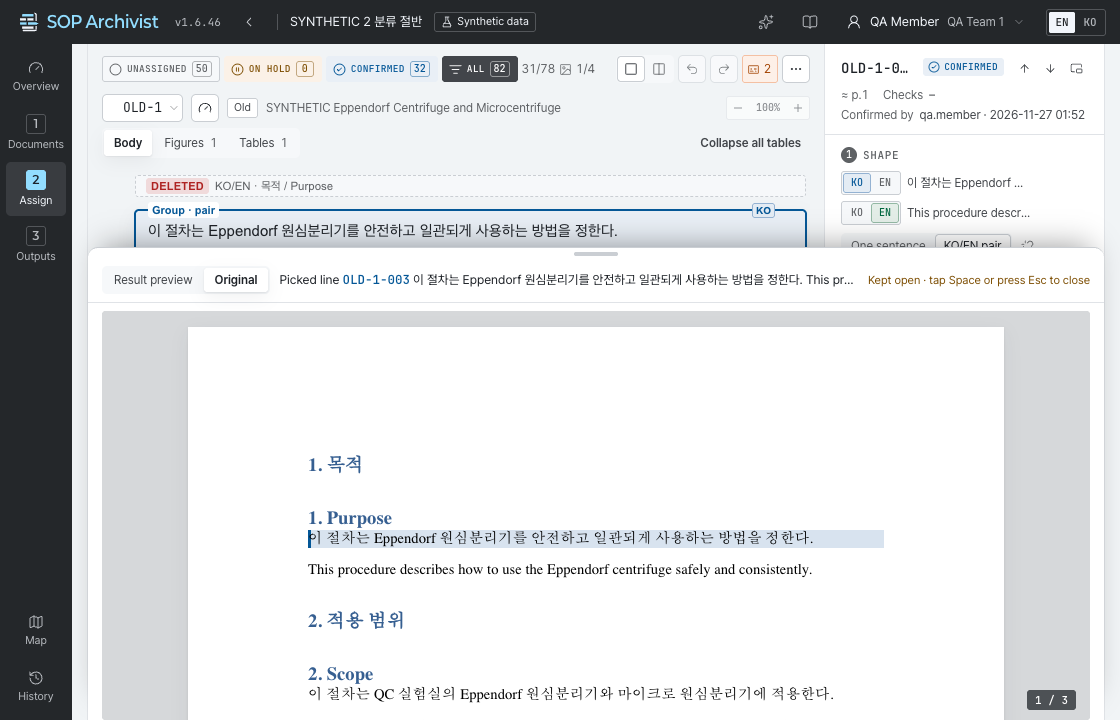
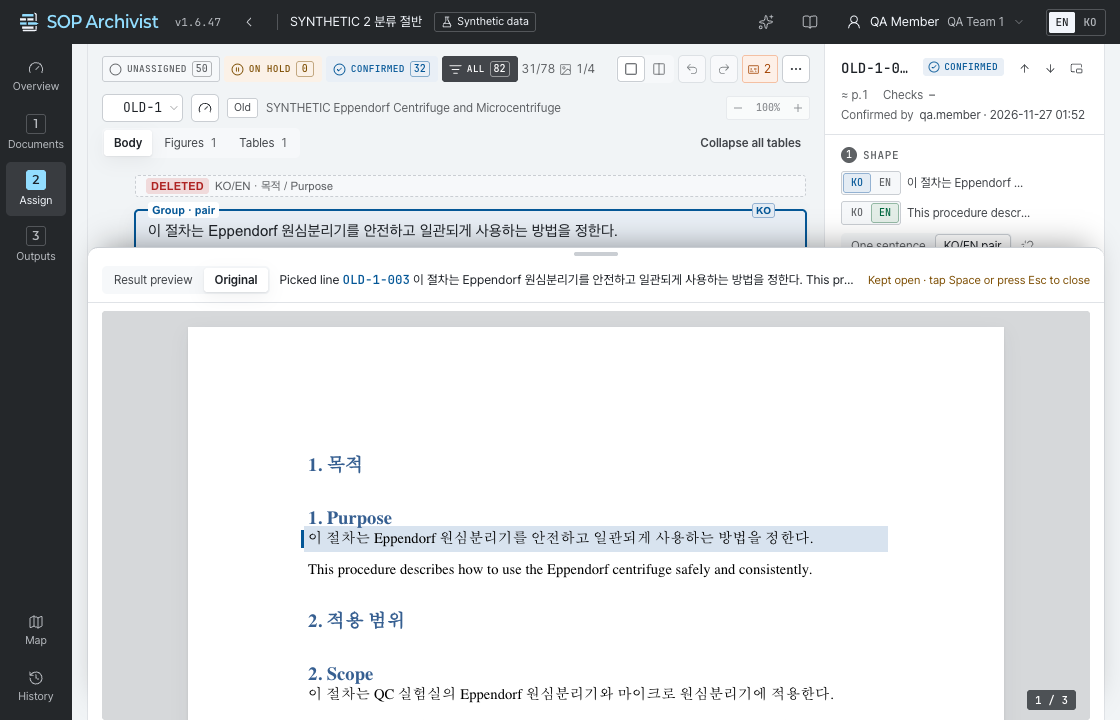
chore(release): v1.6.48 — retarget the release prep after the paint padding — 준비 커밋을 v1.6.48로
The original view's paint fix (user report 2026-11-27) joined this release as v1.6.48, so the release heading, manual header, status lines, checklist and ledger now name v1.6.48; the manual's assign-original picture shows the new paint.

Claude-Session: https://claude.ai/code/session_01YNNLv8N5oxsYSA5AEz2kBE

Changed region(s): [[0.25, 0.7333, 0.8125, 0.7639]]

diff --git a/docs/qa/2026-11-26-release-frontend-checklist.html b/docs/qa/2026-11-26-release-frontend-checklist.html
@@ -4,7 +4,7 @@
 <meta charset="utf-8">
 <meta name="viewport" content="width=device-width, initial-scale=1">
 <title>정식 업데이트 화면 체크리스트</title>
-<!-- v1.5.0(마지막 main) → dev v1.6.47 사이 프런트 변경을 화면에서 손으로 볼 것. 항목은 아래 SECTIONS 한 곳, 체크는 이 브라우저에만 남는다. -->
+<!-- v1.5.0(마지막 main) → dev v1.6.48 사이 프런트 변경을 화면에서 손으로 볼 것. 항목은 아래 SECTIONS 한 곳, 체크는 이 브라우저에만 남는다. -->
 <style>
   :root {
     --bg: #f7f7f5; --card: #ffffff; --text: #1d1d1b; --muted: #6b6b66;
@@ -85,7 +85,7 @@
 <body>
 <main>
   <h1>정식 업데이트 화면 체크리스트</h1>
-  <p class="sub">마지막 main <b>v1.5.0</b> → dev <b>v1.6.47</b>. 개발 서버(:4444)에서 화면으로 볼 것만 추렸습니다.</p>
+  <p class="sub">마지막 main <b>v1.5.0</b> → dev <b>v1.6.48</b>. 개발 서버(:4444)에서 화면으로 볼 것만 추렸습니다.</p>
   <p class="sub">자세한 것은 <code>CHANGELOG.md</code> · 장부 "아침에 볼 것"(<code>docs/superpowers/plans/2026-11-25-split-first-ledger.md</code>).</p>
   <div class="bar">
     <div class="meter"><i id="fill"></i></div>
@@ -186,7 +186,7 @@
       { id: "fb-practice", ver: "v1.6.42", title: "연습 페이지 <code>/practice</code> — 서버에 아무것도 쓰지 않는다", detail: ["사용자 메뉴 <b>Practice</b> · 설명서 머리에서 들어감", "과제 12개가 손짓대로 자동 ✓(안내 모양은 v1.6.44 말풍선)"] },
       { id: "fb-coach", ver: "v1.6.44", title: "연습 화면 과제 안내 = 말풍선 스포트라이트", detail: ["화면이 살짝 어두워지고 눌러야 할 상자만 밝게 · 파란 테두리가 숨쉼", "말풍선: 과제 n/12 · 장 이름 · 글쇠 · 설명서 → · 건너뛰기", "해내면 카드가 뒤집혀 체크 → 다음 과제로", "위 띠의 점 12개(누르면 그 과제), 다 하면 마치는 카드"] },
       { id: "fb-sheet-resize", ver: "v1.6.45", title: "Space 시트 위 손잡이를 끌어 높이 조절", detail: ["작업 화면의 30~90%", "새로 고침 뒤에도 그 높이"] },
-      { id: "fb-original", ver: "v1.6.46", title: "Space 시트 탭 둘 — 결과 미리보기 · <b>원본 보기</b>(인쇄 미리보기)", detail: ["원본 탭: 회색 책상 위 흰 종이(다크에서도), 머리말 · 꼬리말 · 쪽 번호, 오른쪽 아래 쪽 칩 \"3 / 12\"", "J · K로 고른 박스의 문단 · 표 칸 · 표 전체가 칠해지고 그 자리로 따라감(가까우면 굴림, 멀면 흐렸다 밝힘)", "열어 둔 시트에서 Space 탁 → 0.3초 흐려지며 닫힘, 그사이 한 번 더 탁 → 탭이 바뀜", "마지막 탭 기억 · 시트를 닫았다 열어도 쉬머 없이 바로", "양 단: Old · New 두 원본이 본 화면 세로선 비율로 나란히(앱에서 만든 New는 안내)", "PDF 원본 · 연습 화면은 안내만", "EMF · WMF 그림(옛 아이콘 · Visio · Excel 미리보기)이 그려짐 — 못 그리면 빗금 상자"] },
+      { id: "fb-original", ver: "v1.6.46", title: "Space 시트 탭 둘 — 결과 미리보기 · <b>원본 보기</b>(인쇄 미리보기)", detail: ["원본 탭: 회색 책상 위 흰 종이(다크에서도), 머리말 · 꼬리말 · 쪽 번호, 오른쪽 아래 쪽 칩 \"3 / 12\"", "J · K로 고른 박스의 문단 · 표 칸 · 표 전체가 칠해지고(막대는 글자 밖 왼쪽, v1.6.48) 그 자리로 따라감(가까우면 굴림, 멀면 흐렸다 밝힘)", "열어 둔 시트에서 Space 탁 → 0.3초 흐려지며 닫힘, 그사이 한 번 더 탁 → 탭이 바뀜", "마지막 탭 기억 · 시트를 닫았다 열어도 쉬머 없이 바로", "양 단: Old · New 두 원본이 본 화면 세로선 비율로 나란히(앱에서 만든 New는 안내)", "PDF 원본 · 연습 화면은 안내만", "EMF · WMF 그림(옛 아이콘 · Visio · Excel 미리보기)이 그려짐 — 못 그리면 빗금 상자"] },
       { id: "fb-headfit", ver: "v1.6.43", title: "문서가 하나인 Assign 칸 머리 줄 — 좁은 칸에서 제목이 말줄임", detail: ["확대 단추가 옆 칸 머리를 덮지 않음", "전체 이름은 툴팁"] },
     ] },
     { title: "관리 화면", where: "/admin — v1.6.19(관리 세션에서 중간에 합침), 칩 숫자는 스텝", items: [

diff --git a/CHANGELOG.md b/CHANGELOG.md
@@ -4,9 +4,9 @@ SOP Archivist 서비스 버전 기록. 단일 소스는 `frontend/package.json` 
 
 ## Unreleased (dev)
 
-## v1.6.47 — 2026-11-27
+## v1.6.48 — 2026-11-27
 
-- **범위**: v1.5.0 뒤 dev 업데이트 v1.6.0~v1.6.47 — 쪼개기 먼저 패치(T/F 피드백 2차 명세 17항목 중 F2-R1~R5를 뺀 전부 · 회의 결정), 관리 화면 다듬기, 1차 피드백, 연습 페이지 `/practice`(말풍선 스포트라이트), Assign Space 시트 높이 끌기 · **원본 보기**(인쇄 미리보기). 줄마다의 기록은 아래 그대로다.
+- **범위**: v1.5.0 뒤 dev 업데이트 v1.6.0~v1.6.48 — 쪼개기 먼저 패치(T/F 피드백 2차 명세 17항목 중 F2-R1~R5를 뺀 전부 · 회의 결정), 관리 화면 다듬기, 1차 피드백, 연습 페이지 `/practice`(말풍선 스포트라이트), Assign Space 시트 높이 끌기 · **원본 보기**(인쇄 미리보기). 줄마다의 기록은 아래 그대로다.
 - **배포 메모**:
   - 운영은 v1.5.0(2026-11-23 무렵 배포, 사용자 확인 11-27) — v1.5.0의 Alembic `0035`(기존 행 바꿈) · `0036` · `0037`은 이미 적용됐고, 이번 배포는 아래 `0038`~`0041`(더하기만)만 돈다.
   - v1.5.0 뒤 Alembic `0038`~`0041`은 **더하기만** 한다(upgrade 기준, 파일을 읽어 확인): `0038` `extractions.split_rule` 열(기존 행 1), `0039` `units.noise_reason`(기존 행 빈 글) · `unit_edits.noise_reason_changes`(기존 행 `{}`) 열, `0040` 새 표 `table_counterparts`와 인덱스 둘, `0041` `ai_jobs` 종류 CHECK에 `table_follow` 값 하나. 기존 행의 값을 지우거나 바꾸지 않는다(`0041`의 downgrade만 `table_follow` 작업을 지운다 — 운영은 downgrade하지 않는다).
@@ -15,7 +15,7 @@ SOP Archivist 서비스 버전 기록. 단일 소스는 `frontend/package.json` 
   - 쪼개기 규칙 2(문단 · 언어별 박스, 앞부분 · 개정 이력 제외)는 **새로 올리는 문서에만** — 이미 올린 문서는 그대로이고 새 규칙이 필요하면 다시 올린다. 추출기 버전은 9 그대로.
   - **새 npm 의존성 셋**(frontend, 정확한 버전, 서버 빌드의 `npm ci`가 npm 레지스트리에서 받는다 — 외부 다운로드 규칙 안): `docx-preview` 0.4.1 · `jszip` 3.10.2(원본 DOCX를 브라우저에서 그리기) · `emf-converter` 4.28.1(EMF · WMF 그림, `emf-converter/lite`만 씀). 셋 다 원본 탭을 처음 열 때만 내려받는다(첫 화면 번들 밖).
   - env · 권한 · 베이스 이미지 · backend 의존성 변경 없음(`.env.example` · `docker-compose.yml` · `backend/requirements.txt` · Dockerfile 차이 없음). 새 API `GET …/documents/{id}/original-places`(읽기만)와 `…/file`의 ETag · 304는 Alembic 없이 기존 표를 읽기만 한다.
-- **검증과 한계**: 원본 보기 묶음(dev v1.6.46): pytest 3862 + 시드 15 · ruff · vitest 2905 · `npm run build` 경고 0, 전체 스모크 `FULL=1` 2637 통과 · 3 실패(새 원본 보기 단계 둘 — v1.6.47에서 고침: 쪽 높이는 문단 여백 셈, 표 칠하기 단계는 묶음을 이름으로) → 고친 뒤 실패 단계 ALL PASS 19 · `assign: Space preview` ALL PASS 78 · `practice:` ALL PASS 60, 겹침 감사 ALL PASS(84) · 대비 감사 ALL PASS, 원본 보기 화면 확인(한 단 · 양 단 · 다크 · 1120 좁은 창 머리 · EMF 문서), vitest 2906(v1.6.47). 배치 감사(`DS=worst`)는 Space 시트를 다루지 않고 다른 화면이 v1.6.41 뒤 그대로라 다시 돌리지 않았다. 사용 설명서 그림은 새 장면 `assign-original` 하나. 그 전(v1.6.44까지): pytest 3851 + 시드 15 · ruff · vitest 2808 · `npm run build` 경고 0. 전체 스모크 `FULL=1`: 연습 페이지 모음 브랜치(dev v1.6.41 포함) ALL PASS 2588, 최종 dev v1.6.43 = ALL PASS 2588, v1.6.44(연습 화면만 바뀜)는 `practice:` ALL PASS 56 · overlap `assign-pane-head-narrow` 4/4 · vitest 2832 · build 경고 0. 감사(dev v1.6.41, 바뀐 화면만): 배치 `DS=worst` Assign · 상단 바 · 관리 19항목 151/151, 겹침 Assign 장면 다섯 × 1120 · 1280 · 1440 · 1920 40/40 + 새 장면 `assign-pane-head-narrow`(v1.6.43) 4/4, 대비 전부 통과, 사용 설명서 그림은 바뀐 장면 7(새 4 · 다시 3). 반응속도(운영 빌드 · 극단 시드, v1.6.41): 52문서 CPU 1배 J 24.1 → 9.7 · Delete 24.5 → 10.4ms, CPU 4배 J 53.2 → 51.7 · Delete 57.7 → 56.1ms, 작은 문서 CPU 1배 필터 Delete 6.4 → 21.5ms(지난번 기준 v1.6.23의 23ms 수준 — 오가는 잡음), 모두 100ms 기준 아래, 스크롤 끊김 0. 실제 SOP · 실제 모델로는 검증하지 못했다(합성 SOP와 가짜 AI, 짝 표를 가리는 값도 합성 자료로 잡았다).
+- **검증과 한계**: 원본 보기 묶음(dev v1.6.46): pytest 3862 + 시드 15 · ruff · vitest 2905 · `npm run build` 경고 0, 전체 스모크 `FULL=1` 2637 통과 · 3 실패(새 원본 보기 단계 둘 — v1.6.47에서 고침: 쪽 높이는 문단 여백 셈, 표 칠하기 단계는 묶음을 이름으로) → 고친 뒤 실패 단계 ALL PASS 19 · `assign: Space preview` ALL PASS 78 · `practice:` ALL PASS 60, 겹침 감사 ALL PASS(84) · 대비 감사 ALL PASS, 원본 보기 화면 확인(한 단 · 양 단 · 다크 · 1120 좁은 창 머리 · EMF 문서), vitest 2906(v1.6.47), v1.6.48(원본 칠 모양만)은 `assign: Space preview` ALL PASS 79. 배치 감사(`DS=worst`)는 Space 시트를 다루지 않고 다른 화면이 v1.6.41 뒤 그대로라 다시 돌리지 않았다. 사용 설명서 그림은 새 장면 `assign-original` 하나. 그 전(v1.6.44까지): pytest 3851 + 시드 15 · ruff · vitest 2808 · `npm run build` 경고 0. 전체 스모크 `FULL=1`: 연습 페이지 모음 브랜치(dev v1.6.41 포함) ALL PASS 2588, 최종 dev v1.6.43 = ALL PASS 2588, v1.6.44(연습 화면만 바뀜)는 `practice:` ALL PASS 56 · overlap `assign-pane-head-narrow` 4/4 · vitest 2832 · build 경고 0. 감사(dev v1.6.41, 바뀐 화면만): 배치 `DS=worst` Assign · 상단 바 · 관리 19항목 151/151, 겹침 Assign 장면 다섯 × 1120 · 1280 · 1440 · 1920 40/40 + 새 장면 `assign-pane-head-narrow`(v1.6.43) 4/4, 대비 전부 통과, 사용 설명서 그림은 바뀐 장면 7(새 4 · 다시 3). 반응속도(운영 빌드 · 극단 시드, v1.6.41): 52문서 CPU 1배 J 24.1 → 9.7 · Delete 24.5 → 10.4ms, CPU 4배 J 53.2 → 51.7 · Delete 57.7 → 56.1ms, 작은 문서 CPU 1배 필터 Delete 6.4 → 21.5ms(지난번 기준 v1.6.23의 23ms 수준 — 오가는 잡음), 모두 100ms 기준 아래, 스크롤 끊김 0. 실제 SOP · 실제 모델로는 검증하지 못했다(합성 SOP와 가짜 AI, 짝 표를 가리는 값도 합성 자료로 잡았다).
 
 - v1.6.48 — 2026-11-27: 원본 보기 칠의 왼쪽 막대가 첫 글자를 덮던 것 — 칠은 글자 밖으로 4px 번지고 막대는 그 바깥에(사용자 11-27)
 - v1.6.47 — 2026-11-27: 원본 보기의 첫 장이 제목 앞 간격만큼 종이보다 길던 것 — 쪽을 나눌 때 문단 위 · 아래 여백까지 종이 높이에 셈

diff --git a/docs/superpowers/plans/2026-11-25-split-first-ledger.md b/docs/superpowers/plans/2026-11-25-split-first-ledger.md
@@ -49,17 +49,17 @@
 
 ## 이어 가기 (2026-11-27 — 세션 끝. 다음 세션은 여기부터)
 
-`origin/dev` = **v1.6.47 + 준비 커밋**(`chore(release): v1.6.47` — F10 높이 끌기 v1.6.45 · F11 원본 보기 v1.6.46 · 쪽 높이 고침 v1.6.47이 들어간 뒤 다시 맞춤, 11-27 오후 세션). 운영 = **v1.5.0**(2026-11-23 무렵 배포, 사용자 확인 — CHANGELOG에 적음). 개발 :4444는 dev 푸시마다 자동.
+`origin/dev` = **v1.6.48 + 준비 커밋**(`chore(release): v1.6.48` — F10 높이 끌기 v1.6.45 · F11 원본 보기 v1.6.46 · 쪽 높이 고침 v1.6.47 · 칠 막대 여백 v1.6.48이 들어간 뒤 다시 맞춤, 11-27 오후 세션). 운영 = **v1.5.0**(2026-11-23 무렵 배포, 사용자 확인 — CHANGELOG에 적음). 개발 :4444는 dev 푸시마다 자동.
 
 **다음 세션이 할 일 (차례)**
-0. 끝남(v1.6.45 · v1.6.46 · v1.6.47, 준비 커밋도 v1.6.47로). 원본 보기 남은 것: CSP 머리(nginx), 한/영 짝 박스는 KO 문단만 칠함(D9는 박스의 문단 전부), 실제 SOP · 실제 EMF로 아직 못 봄(회사 PC `sop-original-check.html`). 옛 0번: ~~**(11-27 낮 사용자 결정) main 합치기 전에 F10 높이 끌기 · F11 원본 보기를 dev에 넣는다**~~ — 번호는 PATCH로 잇고(1.6.45 …) 둘이 들어간 뒤 준비 커밋 내용을 마지막 번호로 다시 맞춘다(설명서 그림은 Space 시트 장면도). 그때까지 main · 태그 금지. 진행은 `~/Documents/sop-orchestration/original-view-next.md`.
+0. 끝남(v1.6.45 · v1.6.46 · v1.6.47 · v1.6.48, 준비 커밋도 v1.6.48로). 원본 보기 남은 것: CSP 머리(nginx), 한/영 짝 박스는 KO 문단만 칠함(D9는 박스의 문단 전부), 실제 SOP · 실제 EMF로 아직 못 봄(회사 PC `sop-original-check.html`). 옛 0번: ~~**(11-27 낮 사용자 결정) main 합치기 전에 F10 높이 끌기 · F11 원본 보기를 dev에 넣는다**~~ — 번호는 PATCH로 잇고(1.6.45 …) 둘이 들어간 뒤 준비 커밋 내용을 마지막 번호로 다시 맞춘다(설명서 그림은 Space 시트 장면도). 그때까지 main · 태그 금지. 진행은 `~/Documents/sop-orchestration/original-view-next.md`.
 1. 사용자와 개발 서버 :4444에서 체크리스트 `docs/qa/2026-11-26-release-frontend-checklist.html` 1차 피드백 절(특히 연습 화면 말풍선 `fb-coach` · 높이 끌기 `fb-sheet-resize` · 원본 보기 `fb-original`)과 아래 "아침에 볼 것"의 (F…) 줄을 함께 본다. 고칠 것이 나오면 브랜치 하나씩 → dev(번호 PATCH, 1.6.45 …) → 준비 커밋 내용(CHANGELOG 릴리스 제목 · 설명서 머리 · CLAUDE.md 상태 줄 · README · 체크리스트)을 새 번호로 다시 맞춘다(11-27 v1.6.43→v1.6.47 때처럼).
 2. 사용자가 확인하면 main 합치기 · 태그(사용자 PC 또는 사용자 승인 뒤):
    ```bash
    git fetch && git switch dev && git pull --ff-only
-   git tag -a v1.6.47 -m "v1.6.47 — 정식 업데이트" && git switch main && git pull --ff-only && git merge --no-ff dev -m "Merge dev into main (v1.6.47)" && git push origin main && git push origin v1.6.47 && git switch dev
+   git tag -a v1.6.48 -m "v1.6.48 — 정식 업데이트" && git switch main && git pull --ff-only && git merge --no-ff dev -m "Merge dev into main (v1.6.48)" && git push origin main && git push origin v1.6.48 && git switch dev
    ```
-   → 사용자가 GitLab `deploy-production` ▶ → 상단 바 확인 → CHANGELOG v1.6.47 배포 메모에 **운영 배포 날짜** → 다음 dev 첫 푸시는 MINOR(1.7.0).
+   → 사용자가 GitLab `deploy-production` ▶ → 상단 바 확인 → CHANGELOG v1.6.48 배포 메모에 **운영 배포 날짜** → 다음 dev 첫 푸시는 MINOR(1.7.0).
 3. 배포 뒤 정리: 이 장부와 `2026-11-23-assign-feedback-2.md`(F2-R1~R5 보류분만 남음 — 숨긴 새 문서 기능을 다시 켤 때까지 둘지 사용자에게)를 끝난 계획 정책대로 정리.
 4. 다음 묶음(미룸): 6 표 꼴 개정 이력 · 7 Reference 아래가 참조로 안 된 경우(실제 문서 분석 — :4444 Bundle을 사용자에게 묻기) · 스모크 "맞을 때까지 읽기" 공용 함수(`/harden`) · README 5줄의 숨긴 기능(Order · 결과물 C) 설명 다듬기.
 
@@ -69,7 +69,7 @@
 
 ### 11-27 아침 기록 (연습 화면 말풍선 · 준비 커밋을 v1.6.44로)
 
-- (11-27 아침) 사용자 요청으로 연습 화면을 말풍선 스포트라이트 + 완료 플립으로 바꿔 **v1.6.44**(F9b)를 더했고, 준비 커밋 내용(CHANGELOG 릴리스 제목 · 설명서 머리 · CLAUDE.md · README · 체크리스트)을 v1.6.44로 다시 맞췄다. 아래 v1.6.43 글은 그때의 기록 — (그 뒤 오후에 v1.6.47로 다시 맞춤, 위 2번의 명령을 쓴다) **main 합치기 · 태그는 v1.6.44**:
+- (11-27 아침) 사용자 요청으로 연습 화면을 말풍선 스포트라이트 + 완료 플립으로 바꿔 **v1.6.44**(F9b)를 더했고, 준비 커밋 내용(CHANGELOG 릴리스 제목 · 설명서 머리 · CLAUDE.md · README · 체크리스트)을 v1.6.44로 다시 맞췄다. 아래 v1.6.43 글은 그때의 기록 — (그 뒤 오후에 v1.6.48로 다시 맞춤, 위 2번의 명령을 쓴다) **main 합치기 · 태그는 v1.6.44**:
   ```bash
   git fetch && git switch dev && git pull --ff-only
   git tag -a v1.6.44 -m "v1.6.44 — 정식 업데이트" && git switch main && git pull --ff-only && git merge --no-ff dev -m "Merge dev into main (v1.6.44)" && git push origin main && git push origin v1.6.44 && git switch dev

diff --git a/README.md b/README.md
@@ -2,7 +2,7 @@
 
 SOP Restructuring T/F가 쓰는 사내 AI 에이전트 웹 서비스 (FastAPI + Next.js, 사내 서버에 docker compose로 배포). 사용자는 전 부서의 SOP 담당자다.
 
-현재 **v1.6.47**(2026-11-27 정식 업데이트, 버전별 변경은 [`CHANGELOG.md`](CHANGELOG.md)). 기반 세팅(**사내 로그인(Keycloak)·직원 디렉터리(HR 웹훅 동기화)·사내 AI 연결·표 기반 권한 체계·관리 화면·DB 자동 백업**) 위에 SOP 재구성의 결정적 코어와 AI 제안 층을 얹었다. 옛 SOP·WI를 묶음으로 올리면(DOCX 기본, 텍스트 PDF 보조) 원문을 빠짐없이 추출해 문장 단위로 쪼개고(Split), 작성자가 Unit마다 새 SOP·WI의 칸(회사 템플릿 1–9장)이나 이미 쓴 새 문서의 문장으로 보내 확정한다(Assign — 끌어다 놓기·표 풀기·되돌리기 포함, 순서와 깊이는 Order). 확정 결과로 결과물 A(문장 비교)·B(맵핑 흐름)·C(새 문서 기준 묶음)를 코드가 한 벌로 계산해 Excel(미리보기 포함)로 내보내고 검토를 요청한다. AI는 작성자가 요청할 때 제안만 하고(칸·고쳐 쓰기·번역·짝·나누기) 사람이 줄마다 확정하며, AI가 꺼지거나 실패해도 사람 경로는 그대로 돈다. AI 층은 합성 SOP와 가짜 AI로만 검증했고 실제 사내 모델·실제 SOP로는 아직 시험하지 않았다. 사용법은 앱 안의 사용 설명서(`/manual`, 글은 [`frontend/public/manual/user-manual.md`](frontend/public/manual/user-manual.md))에 있다. 설계: [`docs/superpowers/specs/2026-11-05-sop-restructuring-e2e-design.md`](docs/superpowers/specs/2026-11-05-sop-restructuring-e2e-design.md).
+현재 **v1.6.48**(2026-11-27 정식 업데이트, 버전별 변경은 [`CHANGELOG.md`](CHANGELOG.md)). 기반 세팅(**사내 로그인(Keycloak)·직원 디렉터리(HR 웹훅 동기화)·사내 AI 연결·표 기반 권한 체계·관리 화면·DB 자동 백업**) 위에 SOP 재구성의 결정적 코어와 AI 제안 층을 얹었다. 옛 SOP·WI를 묶음으로 올리면(DOCX 기본, 텍스트 PDF 보조) 원문을 빠짐없이 추출해 문장 단위로 쪼개고(Split), 작성자가 Unit마다 새 SOP·WI의 칸(회사 템플릿 1–9장)이나 이미 쓴 새 문서의 문장으로 보내 확정한다(Assign — 끌어다 놓기·표 풀기·되돌리기 포함, 순서와 깊이는 Order). 확정 결과로 결과물 A(문장 비교)·B(맵핑 흐름)·C(새 문서 기준 묶음)를 코드가 한 벌로 계산해 Excel(미리보기 포함)로 내보내고 검토를 요청한다. AI는 작성자가 요청할 때 제안만 하고(칸·고쳐 쓰기·번역·짝·나누기) 사람이 줄마다 확정하며, AI가 꺼지거나 실패해도 사람 경로는 그대로 돈다. AI 층은 합성 SOP와 가짜 AI로만 검증했고 실제 사내 모델·실제 SOP로는 아직 시험하지 않았다. 사용법은 앱 안의 사용 설명서(`/manual`, 글은 [`frontend/public/manual/user-manual.md`](frontend/public/manual/user-manual.md))에 있다. 설계: [`docs/superpowers/specs/2026-11-05-sop-restructuring-e2e-design.md`](docs/superpowers/specs/2026-11-05-sop-restructuring-e2e-design.md).
 
 ## 로컬 실행 (Docker 없이)
 

diff --git a/CLAUDE.md b/CLAUDE.md
@@ -4,7 +4,7 @@
 
 **SOP Archivist — SOP Restructuring T/F가 쓰는 사내 AI 에이전트 웹 서비스** (FastAPI + Next.js, 사내 서버에 docker compose로 배포). 옛 SOP 묶음을 새 SOP·WI 구조로 다시 짜는 일(문서 쪼개기 → 배정·고쳐 쓰기 → 결과물 A·B·C·Excel → 검토)을 돕는다. **제품 명세: [`docs/superpowers/specs/2026-11-05-sop-restructuring-e2e-design.md`](docs/superpowers/specs/2026-11-05-sop-restructuring-e2e-design.md)**(판단 기준 `docs/domain/`), 기반 명세 `docs/superpowers/specs/2026-11-04-sop-archivist-baseline-design.md`, 프런트와 맞춘 API 계약은 `docs/architecture/api-contract.md`, 프런트 디자인 기초 `frontend/docs/design/2026-11-07-frontend-design-foundations.md`.
 
-> 상태: **v1.6.47 — 정식 업데이트 준비 2026-11-27**(다음 `dev` 번호는 1.7.0부터. 운영 배포는 사용자가 GitLab 파이프라인으로 올린 뒤 `CHANGELOG.md`에 날짜를 적는다. 직전 운영 배포는 v1.5.0, 2026-11-23 무렵. 운영 :7777, 개발 스택 :4444). 기능 이력은 `CHANGELOG.md`, 지금 진행은 `PROGRESS.md`. **2026-11-20부터 실사용자가 운영에 접속해 실제 데이터가 쌓인다** — 운영 DB는 지울 수 없는 자료다: Alembic 리비전이 기존 행을 지우거나 바꾸면 사용자 승인을 받고 CHANGELOG 배포 메모에 굵게 적으며, 배포 전 백업(`docs/deploy/backup.md`)을 확인한다. AI 층은 합성 SOP·가짜 AI로만 검증했고 유사도 임계값은 합성 자료로 잡은 값이다(실제 자료로 다시 정한다).
+> 상태: **v1.6.48 — 정식 업데이트 준비 2026-11-27**(다음 `dev` 번호는 1.7.0부터. 운영 배포는 사용자가 GitLab 파이프라인으로 올린 뒤 `CHANGELOG.md`에 날짜를 적는다. 직전 운영 배포는 v1.5.0, 2026-11-23 무렵. 운영 :7777, 개발 스택 :4444). 기능 이력은 `CHANGELOG.md`, 지금 진행은 `PROGRESS.md`. **2026-11-20부터 실사용자가 운영에 접속해 실제 데이터가 쌓인다** — 운영 DB는 지울 수 없는 자료다: Alembic 리비전이 기존 행을 지우거나 바꾸면 사용자 승인을 받고 CHANGELOG 배포 메모에 굵게 적으며, 배포 전 백업(`docs/deploy/backup.md`)을 확인한다. AI 층은 합성 SOP·가짜 AI로만 검증했고 유사도 임계값은 합성 자료로 잡은 값이다(실제 자료로 다시 정한다).
 > **DB**: 로컬은 sqlite 파일(연결마다 `PRAGMA foreign_keys=ON`), 서버는 postgres. 스키마는 **Alembic**(backend 기동 때 head까지 자동 적용).
 > **원칙**: AI는 제안만 하고 사람이 줄마다 확정한다 — AI가 꺼지거나 실패해도 사람 경로는 돈다. AI는 사내 모델로만 부른다(외부 모델·MCP 금지) — 직원 실명·로그인 ID는 그 기능에 필요할 때 실어도 된다(사용자 결정 2026-11-26, 전에는 실명 금지). 공개 저장소라 실서버 IP·사내 호스트명·시크릿은 추적 파일에 넣지 않는다(`<server-ip>` 등).
 

diff --git a/frontend/public/manual/user-manual.md b/frontend/public/manual/user-manual.md
@@ -1,6 +1,6 @@
 ---
 title: SOP Archivist 사용 설명서
-version: 1.6.47
+version: 1.6.48
 updated: 2026-11-27
 ---
 
